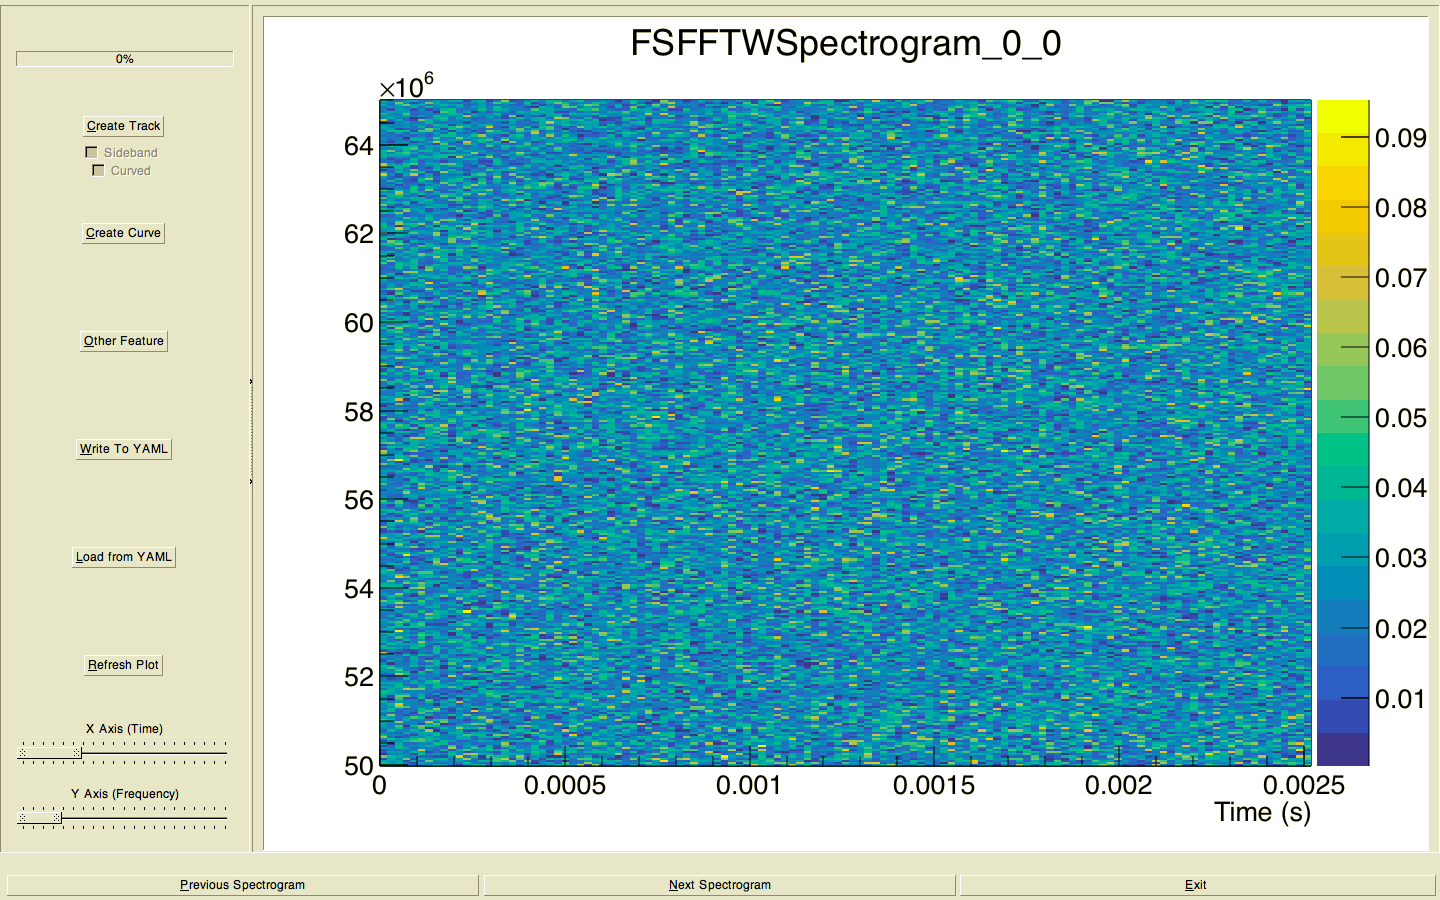
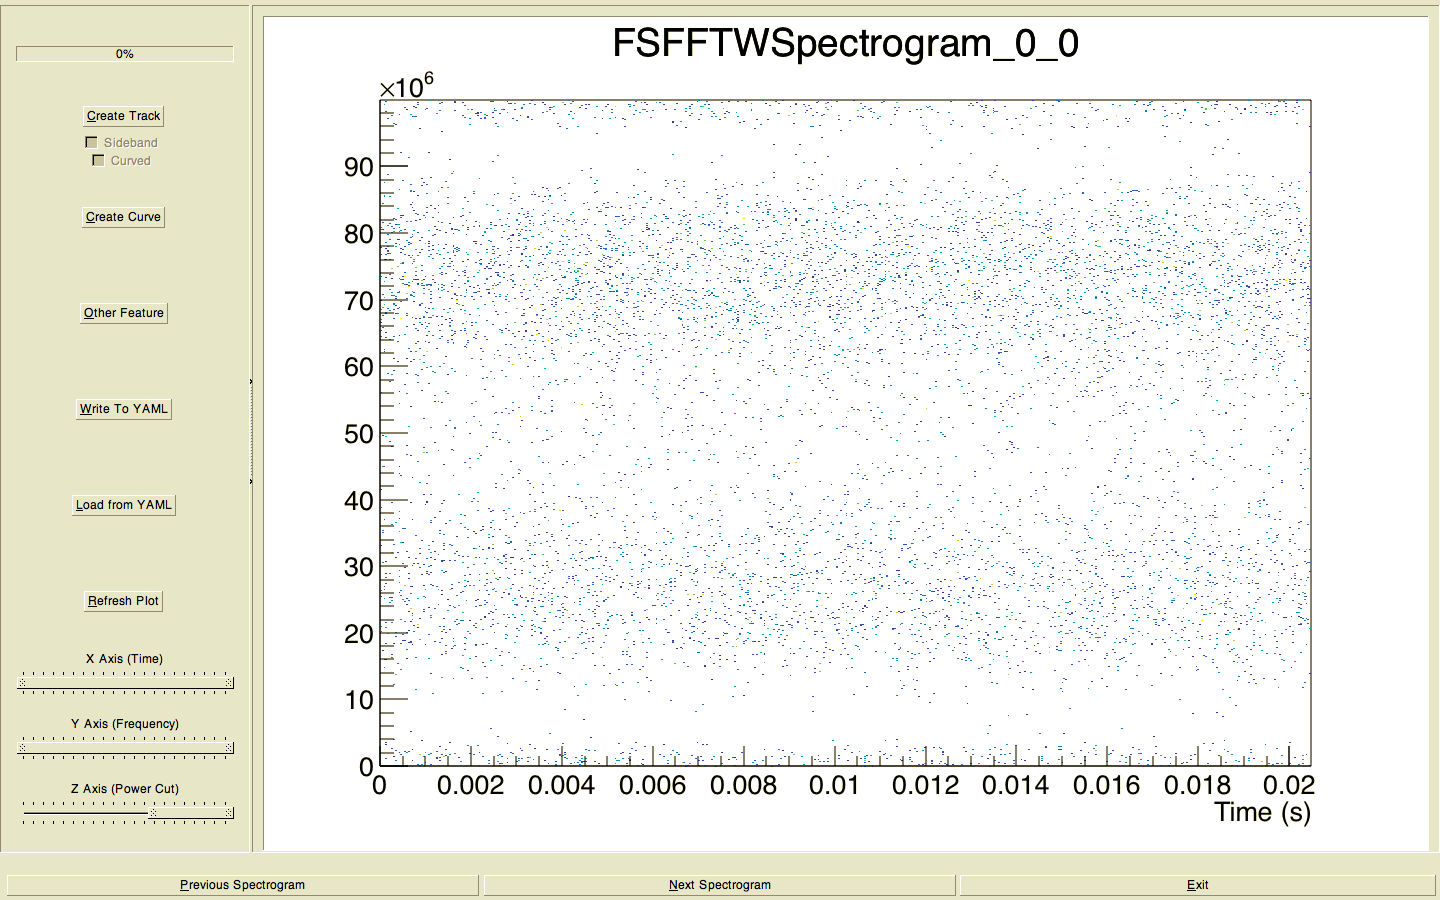
Updated Tutorial
updated tutorial and image for recent changes

diff --git a/Tutorial/README.md b/Tutorial/README.md
@@ -49,7 +49,7 @@ autogenerate the correct filename for DIRAC, as well as the metadata. Once you h
  Redraws plot, zooms in to lower left hand corner.
 
 **Sliders:**
- Pair of double sliders, for the X and Y axes, respectively. Grabbing the center of the slider button and dragging will slide your focus along the XY axes. If you grab the
+ Three ouble sliders, for the X,Y, and Z axes, respectively. Grabbing the center of the slider button and dragging will slide your focus along the axis. If you grab the
  edge of the slider button and drag, you can zoom in or out. By default, the spectrogram is zoomed in as a) operations are quicker on zoomed-in plots, as there is less data, and
  b) when you create tracks, try to really zoom in to get the best accuracy you can
 
